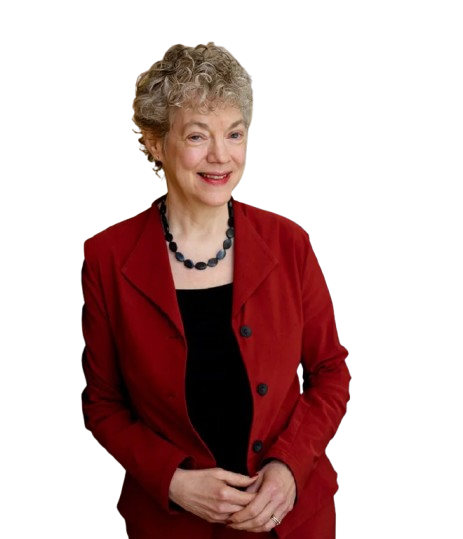
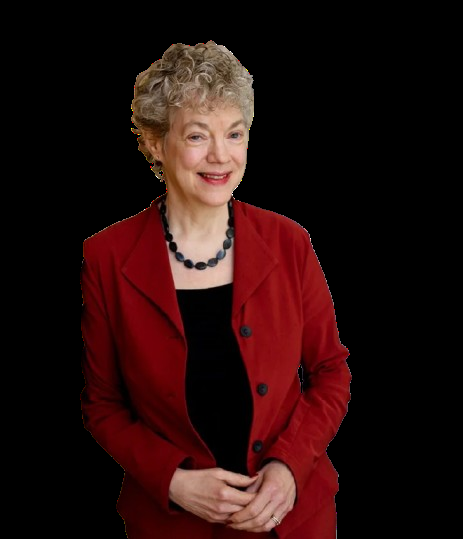
host: 영상 컨트롤 노출, 신규 인용 슬라이드 다크테마 전환, 인물 배경 제거
- #46/#49 영상 슬라이드: <video controls> 속성이 렌더러에서 값 없는
  boolean 속성으로 처리되며 유실되던 문제 수정(controls="controls"로
  명시) → 재생/일시정지 컨트롤이 정상적으로 표시됨
- #50(김경일 교수 인용)/#53(따뜻함·유능함 우선)/#67(R 이유 랭거 인용)/
  #70(친절함 마지막 실력): apex-light(밝은 테마) 클래스를 제거해
  덱 기본값인 다크 테마로 전환
- 김경일 교수/수잔 피스크 사진: 배경 제거(수잔 피스크는 RGBA였지만
  실제로는 불투명 흰 배경이라 컬러키로 제거, 김경일 교수는 그레이스케일
  인물사진이라 컬러키 시 피부톤까지 날아가는 문제가 있어 ImageMagick
  코너 플러드필로 배경만 정확히 제거) → 사진 주변 흰/회색 박스 없이
  다크 배경에 바로 얹히도록 컨테이너도 함께 수정

diff --git a/platform/public/host/index.html b/platform/public/host/index.html
@@ -792,7 +792,7 @@ a:hover{color:var(--red-300)}
 
 <section data-label="영상 재생 1" data-speaker-notes="영상 재생: 어쩌다 어른 - 단어로 하는 기억력 TEST (미디어1)." style="background-color:var(--carbon-950);background-image:var(--texture-speedlines);color:var(--text-primary);font-family:var(--font-core);padding:52px 72px;display:flex;flex-direction:column;justify-content:center;align-items:center;gap:24px" data-om-slide-id="rk-mem-02">
 <span class="apex-eyebrow" style="font-size:24px;color:var(--grid-yellow)">VIDEO · 어쩌다 어른</span>
-<video src="/host/assets/video-memory-test-1.mp4" controls style="width:100%;max-width:1400px;aspect-ratio:16/9;background:#000;border-radius:8px"></video>
+<video src="/host/assets/video-memory-test-1.mp4" controls="controls" style="width:100%;max-width:1400px;aspect-ratio:16/9;background:#000;border-radius:8px"></video>
 </section>
 
 <section data-label="기억력 TEST 계산" data-speaker-notes="이어서 간단한 뺄셈 3문항을 계산하게 한다." style="background-color:var(--bg-page);background-image:var(--texture-carbon);color:var(--text-primary);font-family:var(--font-core);padding:52px 72px;display:flex;flex-direction:column;justify-content:center;gap:44px" data-om-slide-id="rk-mem-03">
@@ -824,10 +824,10 @@ a:hover{color:var(--red-300)}
 
 <section data-label="영상 재생 2" data-speaker-notes="영상 재생: 어쩌다 어른 - 자체 편집본 (미디어2)." style="background-color:var(--carbon-950);background-image:var(--texture-speedlines);color:var(--text-primary);font-family:var(--font-core);padding:52px 72px;display:flex;flex-direction:column;justify-content:center;align-items:center;gap:24px" data-om-slide-id="rk-mem-05">
 <span class="apex-eyebrow" style="font-size:24px;color:var(--grid-yellow)">VIDEO · 어쩌다 어른</span>
-<video src="/host/assets/video-memory-test-2.mp4" controls style="width:100%;max-width:1400px;aspect-ratio:16/9;background:#000;border-radius:8px"></video>
+<video src="/host/assets/video-memory-test-2.mp4" controls="controls" style="width:100%;max-width:1400px;aspect-ratio:16/9;background:#000;border-radius:8px"></video>
 </section>
 
-<section class="apex-light" data-label="김경일 교수 인용" data-speaker-notes="영상 내용을 정리하며 김경일 교수의 메시지로 마무리." style="background:var(--bg-page);color:var(--text-primary);font-family:var(--font-core);padding:52px 72px;display:flex;flex-direction:column;justify-content:center;gap:32px" data-om-slide-id="rk-mem-06">
+<section data-label="김경일 교수 인용" data-speaker-notes="영상 내용을 정리하며 김경일 교수의 메시지로 마무리." style="background:var(--bg-page);color:var(--text-primary);font-family:var(--font-core);padding:52px 72px;display:flex;flex-direction:column;justify-content:center;gap:32px" data-om-slide-id="rk-mem-06">
 <div style="display:flex;align-items:center;justify-content:space-between;border-bottom:1px solid var(--border-hairline);padding-bottom:16px"><span class="apex-eyebrow" style="font-size:27px;color:var(--text-muted)">김경일 교수가 말하는 기억이란?</span></div>
 <div style="display:grid;grid-template-columns:1fr 420px;gap:56px;flex:1;align-items:center">
 <div style="display:flex;flex-direction:column;gap:24px">
@@ -835,8 +835,8 @@ a:hover{color:var(--red-300)}
 <p style="margin:0;font-family:var(--font-display);font-weight:700;font-size:68px;line-height:1.3;color:var(--white)">자체 편집 후 <br>남은 결과이다.</p>
 <p style="margin:0;font-size:27px;color:var(--text-muted)">- 인지심리학자 아주대학교 김경일 교수 -</p>
 </div>
-<div style="width:100%;height:520px;border-radius:8px;overflow:hidden;background:var(--surface-inset)">
-<img src="/host/assets/prof-kimkyungil.jpeg" alt="김경일 교수" style="width:100%;height:100%;object-fit:cover">
+<div style="width:100%;height:520px;display:flex;align-items:flex-end;justify-content:center">
+<img src="/host/assets/prof-kimkyungil.png" alt="김경일 교수" style="max-width:100%;max-height:100%;object-fit:contain">
 </div>
 </div>
 </section>
@@ -876,11 +876,11 @@ a:hover{color:var(--red-300)}
 </div>
 </section>
 
-<section class="apex-light" data-label="따뜻함·유능함 우선" data-speaker-notes="피스크 교수의 핵심 메시지: 따뜻함이 유능함보다 항상 먼저다." style="background:var(--bg-page);color:var(--text-primary);font-family:var(--font-core);padding:52px 72px;display:flex;flex-direction:column;justify-content:center;gap:28px" data-om-slide-id="rk-mem-08">
+<section data-label="따뜻함·유능함 우선" data-speaker-notes="피스크 교수의 핵심 메시지: 따뜻함이 유능함보다 항상 먼저다." style="background:var(--bg-page);color:var(--text-primary);font-family:var(--font-core);padding:52px 72px;display:flex;flex-direction:column;justify-content:center;gap:28px" data-om-slide-id="rk-mem-08">
 <div style="display:flex;align-items:center;justify-content:space-between;border-bottom:1px solid var(--border-hairline);padding-bottom:16px"><span class="apex-eyebrow" style="font-size:27px;color:var(--text-muted)">따뜻X유능 고정관념 모델</span></div>
 <div style="display:grid;grid-template-columns:420px 1fr;gap:56px;flex:1;align-items:center">
-<div style="width:100%;height:560px;border-radius:8px;overflow:hidden;background:var(--surface-inset)">
-<img src="/host/assets/fiske-portrait.png" alt="수잔 피스크 교수" style="width:100%;height:100%;object-fit:cover;object-position:top">
+<div style="width:100%;height:560px;display:flex;align-items:flex-end;justify-content:center">
+<img src="/host/assets/fiske-portrait.png" alt="수잔 피스크 교수" style="max-width:100%;max-height:100%;object-fit:contain">
 </div>
 <div style="display:flex;flex-direction:column;gap:22px">
 <p style="margin:0;font-size:44px;line-height:1.55;color:var(--white)"><span style="color:var(--grid-yellow)">따듯함</span>은 유능함보다 <span style="color:var(--grid-yellow)">언제나 우선</span>해야 합니다.<br>따듯함이 느껴지고 그 뒤에 유능함이 붙었을 때 그 사람에 대한 <span style="color:var(--grid-yellow)">신뢰</span>가 느껴집니다.</p>
@@ -1051,7 +1051,7 @@ a:hover{color:var(--red-300)}
 </div>
 </section>
 
-<section class="apex-light" data-label="R 이유 랭거 인용" data-speaker-notes="에렌 랭거 교수의 결론으로 R(이유) 파트를 마무리." style="background:var(--bg-page);color:var(--text-primary);font-family:var(--font-core);padding:52px 72px;display:flex;flex-direction:column;justify-content:center;gap:28px" data-om-slide-id="rk-prep-12">
+<section data-label="R 이유 랭거 인용" data-speaker-notes="에렌 랭거 교수의 결론으로 R(이유) 파트를 마무리." style="background:var(--bg-page);color:var(--text-primary);font-family:var(--font-core);padding:52px 72px;display:flex;flex-direction:column;justify-content:center;gap:28px" data-om-slide-id="rk-prep-12">
 <div style="display:flex;align-items:center;gap:20px;border-bottom:1px solid var(--border-hairline);padding-bottom:16px"><span class="apex-num apex-skew" style="display:inline-block;background:var(--surface-inset);color:var(--grid-teal);font-size:32px;padding:8px 18px;border-radius:999px">02</span><span style="font-family:var(--font-display);font-weight:700;font-size:40px;color:var(--white)">R: 이유</span></div>
 <div style="display:grid;grid-template-columns:420px 1fr;gap:56px;flex:1;align-items:center">
 <div style="width:100%;height:520px;border-radius:8px;overflow:hidden;background:var(--surface-inset)">
@@ -1089,7 +1089,7 @@ a:hover{color:var(--red-300)}
 </div>
 </section>
 
-<section class="apex-light" data-label="친절함 마지막 실력" data-speaker-notes="1일차 마지막 메시지: 친절함은 AI 시대에도 대체되지 않는 마지막 실력." style="background:var(--bg-page);color:var(--text-primary);font-family:var(--font-core);padding:52px 72px;display:flex;flex-direction:column;justify-content:center;gap:28px" data-om-slide-id="rk-mem-13">
+<section data-label="친절함 마지막 실력" data-speaker-notes="1일차 마지막 메시지: 친절함은 AI 시대에도 대체되지 않는 마지막 실력." style="background:var(--bg-page);color:var(--text-primary);font-family:var(--font-core);padding:52px 72px;display:flex;flex-direction:column;justify-content:center;gap:28px" data-om-slide-id="rk-mem-13">
 <div style="display:flex;align-items:center;justify-content:space-between;border-bottom:1px solid var(--border-hairline);padding-bottom:16px"><span class="apex-eyebrow" style="font-size:27px;color:var(--text-muted)">인간에게 남은 마지막 실력, 친절함!</span></div>
 <div style="display:grid;grid-template-columns:380px 1fr;gap:56px;flex:1;align-items:center">
 <div style="width:100%;height:520px;border-radius:8px;overflow:hidden;background:var(--surface-inset)">
